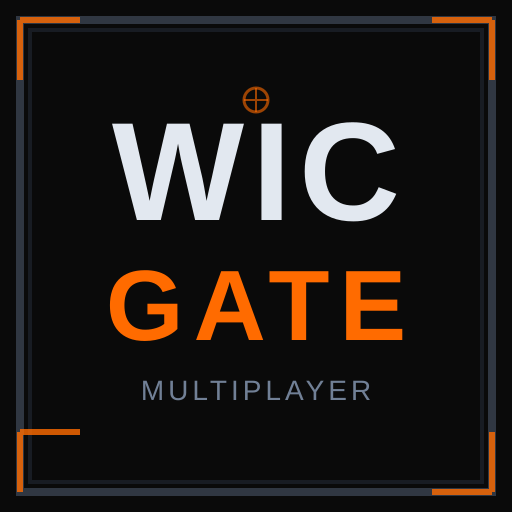
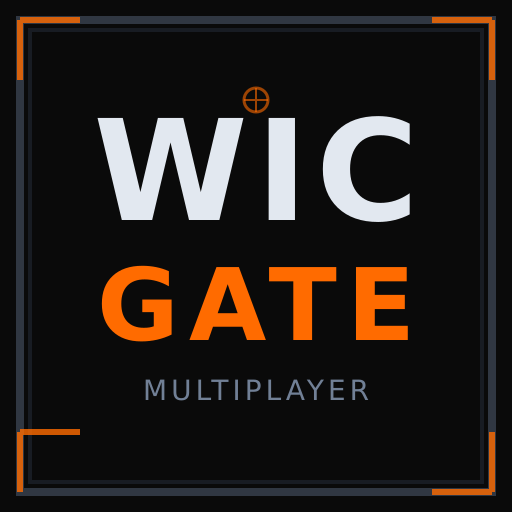
Update hero subtitle with Orbitron futuristic typography
- Add Orbitron font family for sci-fi aesthetic
- Simplify hero title to "Multiplayer Reloaded" (WICGATE shown in logo)
- Apply uppercase, italic, wider tracking styling to subtitle
- Update PWA icons and sitemap dates
- Add new background images

🤖 Generated with [Claude Code](https://claude.com/claude-code)

diff --git a/index.html b/index.html
@@ -65,7 +65,7 @@
     <link rel="preconnect" href="https://www.wicgate.com">
 
     <!-- Military-style fonts for Massgate aesthetic -->
-    <link href="https://fonts.googleapis.com/css2?family=Rajdhani:wght@300;400;500;600;700&family=Oswald:wght@200;300;400;500;600;700&display=swap" rel="stylesheet">
+    <link href="https://fonts.googleapis.com/css2?family=Orbitron:wght@400;500;600;700;800;900&family=Rajdhani:wght@300;400;500;600;700&family=Oswald:wght@200;300;400;500;600;700&display=swap" rel="stylesheet">
   </head>
 
   <body>

diff --git a/src/components/WidgetDashboard.vue b/src/components/WidgetDashboard.vue
@@ -51,7 +51,7 @@ function goToSection(sectionOrSubsectionId: string) {
           <img src="/wic-logo.png" alt="World in Conflict" class="hero-wic-logo" />
 
           <h1 class="hero-title">
-            <span class="hero-subtitle text-soviet block">WICGATE: Multiplayer Reloaded</span>
+            <span class="hero-subtitle text-soviet block">Multiplayer Reloaded</span>
           </h1>
 
           <div class="space-y-3 mb-6">

diff --git a/src/assets/styles/tailwind.css b/src/assets/styles/tailwind.css
@@ -2278,9 +2278,10 @@
     }
   }
 
-  /* Hero subtitle (Multiplayer Reloaded) */
+  /* Hero subtitle (Multiplayer Reloaded) - Orbitron futuristic font */
   .hero-subtitle {
-    @apply inline text-4xl text-massgate-red-bright font-bold;
+    @apply inline text-4xl text-massgate-red-bright font-futuristic font-bold uppercase tracking-wider;
+    font-style: italic;
     filter: drop-shadow(0 2px 8px rgba(0, 0, 0, 0.9));
   }
 

diff --git a/tailwind.config.ts b/tailwind.config.ts
@@ -125,6 +125,7 @@ export default {
         'military': ['Oswald', 'Impact', 'sans-serif'],
         'body': ['Rajdhani', 'sans-serif'],
         'mono': ['Courier New', 'monospace'],
+        'futuristic': ['Orbitron', 'sans-serif'],
       },
 
       backgroundImage: {

diff --git a/docs/changelog.md b/docs/changelog.md
@@ -1,6 +1,7 @@
 # Changelog
 
 ## Recent Changes - Quick Summary
+- 🎨 **UI: Hero Subtitle Rebrand with Futuristic Typography** - Updated hero subtitle styling: added Orbitron font as new "futuristic" font family for sci-fi aesthetic, simplified title from "WICGATE: Multiplayer Reloaded" to "Multiplayer Reloaded" (WICGATE is already displayed in logo), applied uppercase + italic + wider tracking to subtitle for impactful futuristic look, updated Google Fonts import to include Orbitron font family, updated PWA icons and sitemap dates (Dec 8)
 - ✨ **UI: Online Players Expand Modal** - Added expand button to Online tab that opens a modal showing all players in a screenshot-friendly grid layout (1-3 columns based on screen size): useful for community screenshots to incentivize players to join games, modal displays all server groups with player names/ranks/clan tags, closes via Escape key/backdrop click/close button, reuses existing overlay styling patterns from FirstVisitOverlay, SSR-safe implementation with proper guards (Dec 8)
 - 🎨 **UI: Homepage Widget Layout Swap & Rebrand** - Reorganized homepage info cards: swapped card positions (Online/Top Players card now on left, Events/Videos card now on right), reordered tabs within each card (Online left/Top Players right, Events left/Videos right), renamed tagline from "WICGATE: Multiplayer Reborn" to "WICGATE: Multiplayer Reloaded" across hero section and page meta for link previews (Dec 8)
 - 🎨 **UI: Section Background Images** - Added custom background images to all major sections for enhanced visual immersion: Community (`ru_pr_4_final_picture.png`), Statistics (`pr_14_final.png`), Downloads (`ru_pr_6_pic_2.png`), FAQ (`ru_pr_6_pic_3.png`) - each background uses `background-image` with semi-transparent dark gradient overlay (70-75% opacity) for text readability, cover sizing with center positioning, `!important` flags to prevent style conflicts - creates distinct visual identity per section while maintaining content legibility and cohesive design language (Dec 5)
